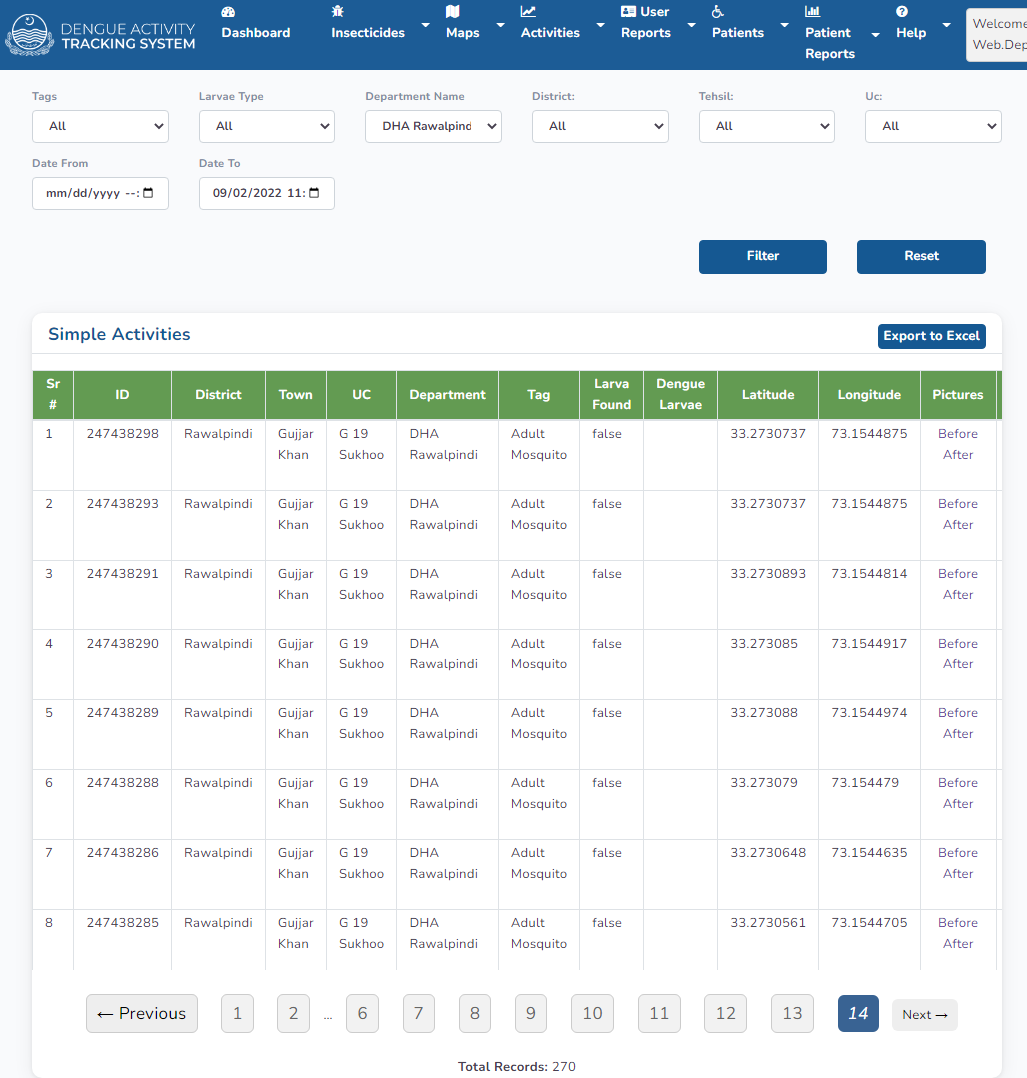
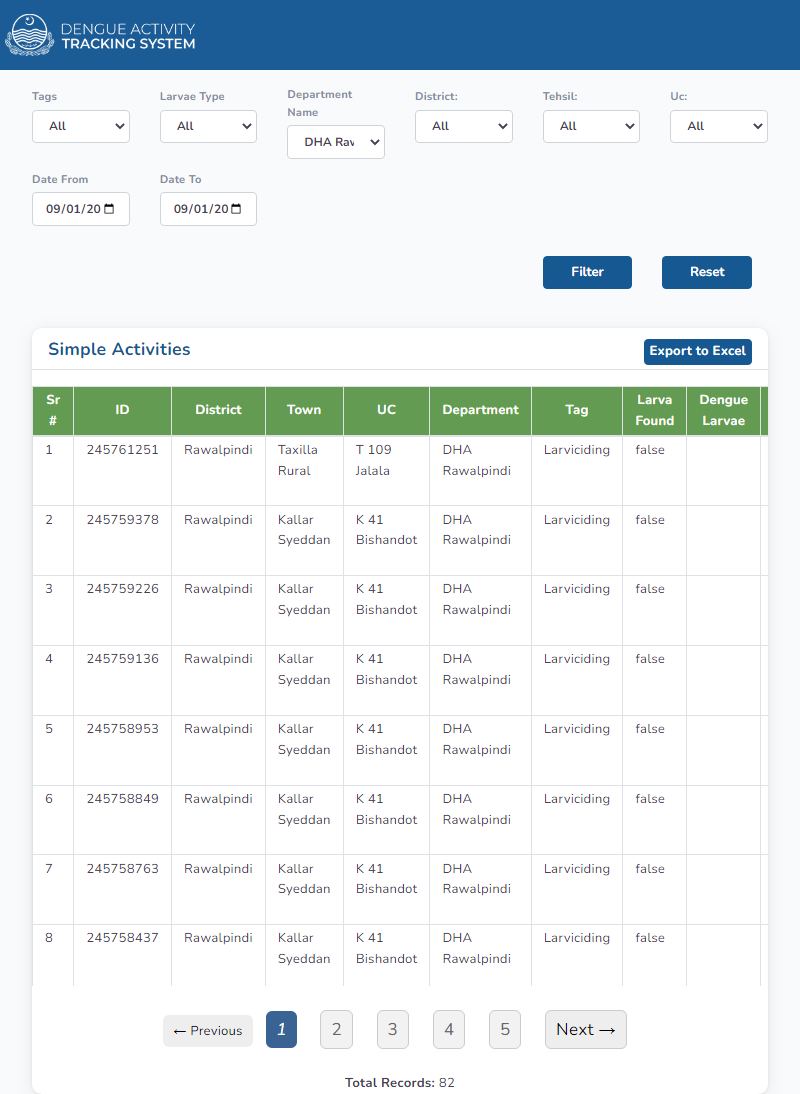
Upload to mongodb implemented

diff --git a/index.js b/index.js
@@ -4,6 +4,7 @@ const puppeteer = require('puppeteer-extra')
 const fs = require('fs/promises')
 const writeFileSync = require("fs").writeFileSync;
 const cheerio = require('cheerio')
+const scrape = require('./simpleActivityScraper')
 
 // add recaptcha plugin and provide it your 2captcha token (= their apiKey)
 // 2captcha is the builtin solution provider but others would work as well.
@@ -21,7 +22,7 @@ puppeteer.use(
 // puppeteer usage as normal
 // Launch Browser
 puppeteer.launch({
-    headless: false,
+    headless: true,
     defaultViewport: null,
     executablePath: 'C:/Program Files/Google/Chrome/Application/chrome.exe'
 })
@@ -40,18 +41,20 @@ puppeteer.launch({
             page.click(`#new_user button`)
         ])
         // Navigating to Activities page
-        // const datefrom = '2022-09-02T22:00'
-        // const dateto = '2022-09-02T23:59'
         await page.goto('https://dashboard.tracking.punjab.gov.pk/activities/simples/line_list')
-        await page.type("#department", "DHA Rawalpindi")
+        // await page.type("#department", "DHA Rawalpindi")
 
-        await page.$eval('#datefrom', el => el.value = '2022-09-02T22:00')
-        await page.$eval('#dateto', el => el.value = '2022-09-02T23:59')
+        const datefrom = '2022-09-01T00:00'
+        const dateto = '2022-09-01T23:59'
+        const activityUrl = `https://dashboard.tracking.punjab.gov.pk/activities/simples/line_list?act_tag=&datefrom=${datefrom}&dateto=${dateto}&department=129&district_id=&larva_type`
+        await page.goto(activityUrl)
+        // await page.$eval('#datefrom', (el, datefrom) => { return el.value = '2022-09-02T22:00' })
+        // await page.$eval('#dateto', (el, dateto) => { return el.value = '2022-09-02T23:59' })
 
-        await Promise.all([
-            page.waitForNavigation(),
-            page.click('body > div.app-admin-wrap.layout-horizontal-bar.clearfix > div > div.row.p-custom > div:nth-child(5) > button'),
-        ])
+        // await Promise.all([
+        //     page.waitForNavigation(),
+        //     page.click('body > div.app-admin-wrap.layout-horizontal-bar.clearfix > div > div.row.p-custom > div:nth-child(5) > button'),
+        // ])
 
         //Calculating pages
         const pageData = await page.evaluate(() => {
@@ -59,78 +62,33 @@ puppeteer.launch({
         })
         const activityArr = []
         const $ = cheerio.load(pageData.html)
-        const pagination = $('.apple_pagination:nth-child(2)').text()
+        let pagination = $('.apple_pagination:nth-child(2)').text()
+        pagination = pagination.replace(',', '')
         const pages = Math.ceil(pagination.substring(15) / 20)
         console.log(pages)
         // Iterating through columns
         for (let i = 1; i < pages + 1; i++) {
-            await page.waitForTimeout(1000)
+            // await page.waitForTimeout(1000)
 
-            const activityUrl = `https://dashboard.tracking.punjab.gov.pk/activities/simples/line_list?act_tag=&datefrom=$2022-09-02T22:00&dateto=2022-09-02T23:59&department=129&district_id=&larva_type=&page=${i}&tehsil_id=&uc=`
+            const activityUrl = `https://dashboard.tracking.punjab.gov.pk/activities/simples/line_list?act_tag=&datefrom=${datefrom}&dateto=${dateto}&department=129&district_id=&larva_type=&page=${i}&tehsil_id=&uc=`
             await page.goto(activityUrl)
 
             let activityData = await page.evaluate(() => {
                 return { html: document.documentElement.innerHTML }
             })
-            await page.waitForTimeout(1000)
-            await scrape(activityData)
+            // await page.waitForTimeout(1000)
+            try {
+                await scrape(activityData)
+            } catch (error) {
+                console.log(error)
+            }
             console.log(`Page ${i} scraped successfully.`)
-
-            // await page.click('.next_page')
-            // console.log(activityArr)
-
         }
         await page.screenshot({ path: 'response.png', fullPage: true })
         await browser.close()
 
 
 
+
     })
-
-const scrape = async (activityData) => {
-    let $ = cheerio.load(activityData.html)
-    let table = $('#p_table')
-    let rowSelector = "#p_table > tbody > tr"
-
-    const keys = ['sr', 'id', 'district', 'town', 'uc', 'tag', 'larva', 'dengueLarva', 'lat', 'long', 'pics', 'timeDiff', 'user', 'activityTime', 'bogus']
-
-
-    $(rowSelector).each((parentIdx, parentElm) => {
-        let keyIdx = 0
-        const activity = {}
-        let picsBoth = []
-        $(parentElm).children().each((childIdx, childElm) => {
-            let td = $(childElm)
-            let tdValue = $(childElm).text()
-            $(td).find('a').each((i, part) => {
-                const $part = $(part)
-                picsBoth.push($part.attr('href'))
-            })
-
-            if (keyIdx === 10) {
-                // picsBoth.beforePic = $('a:first-child', $(childElm).html()).attr('href')
-                // picsBoth.afterPic = $('a:nth-child(2)', $(childElm).html()).attr('href')
-                tdValue = picsBoth
-            }
-
-            if (keyIdx === 14) {
-                const bogus = $('button', $(childElm).html()).attr('onclick')
-                if (bogus === undefined) {
-                    tdValue = "Bogus Activity"
-                } else {
-                    tdValue = `https://dashboard.tracking.punjab.gov.pk${bogus.substring(17)}`
-                }
-            }
-
-            if (tdValue) {
-                activity[keys[keyIdx]] = tdValue
-
-
-                keyIdx++
-            }
-        })
-        console.log(activity)
-    })
-    // return scrape() // run the loop again
-}
 

diff --git a/simpleActivityScraper.js b/simpleActivityScraper.js
@@ -1,0 +1,81 @@
+const { default: axios } = require('axios')
+const cheerio = require('cheerio')
+const dateMod = require('./dateMod')
+
+const scrape = async (activityData) => {
+    let $ = cheerio.load(activityData.html)
+    let rowSelector = "#p_table > tbody > tr"
+
+    const keys = ['sr', 'pitbid', 'district', 'town', 'uc', 'department', 'tag', 'larva', 'dengueLarva', 'lat', 'long', 'pics', 'timeDiff', 'userName', 'date', 'bogus']
+
+
+    $(rowSelector).each(async function (parentIdx, parentElm) {
+        const activity = {}
+        let keyIdx = 0
+        $(parentElm).children().each((childIdx, childElm) => {
+            let picsBoth = []
+            let td = $(childElm)
+            let tdValue = $(childElm).text()
+            $(td).find('a').each((i, part) => {
+                const $part = $(part)
+                picsBoth.push($part.attr('href'))
+            })
+
+            if (keyIdx === 10) {
+                tdValue = picsBoth
+            }
+
+            if (keyIdx === 14) {
+                const bogus = $('button', $(childElm).html()).attr('onclick')
+                if (bogus === undefined) {
+                    tdValue = "Bogus Activity"
+                } else {
+                    tdValue = `https://dashboard.tracking.punjab.gov.pk${bogus.substring(17)}`
+                }
+            }
+
+            if (childIdx) {
+                activity[keys[childIdx]] = tdValue
+                keyIdx++
+            }
+        })
+        try {
+            await uploadActivity(activity)
+        } catch (error) {
+            console.log(error)
+        }
+        console.log(`Activity number ${parentIdx + 1} scrapped`)
+    })
+}
+
+const uploadActivity = async (activity) => {
+    // "on 09/02/2022 at 10:01PM"
+    const aDate = dateMod(activity)
+    const dateSubmitted = new Date(aDate)
+    // console.log(dateSubmitted)
+    // console.log(aDate)
+    axios({
+        method: 'post',
+        url: 'http://scraper.sjcloud.ga:5232/simples/new',
+        data: {
+            pitbid: activity.pitbid,
+            district: activity.district,
+            town: activity.town,
+            uc: activity.uc,
+            department: activity.department,
+            tag: activity.tag,
+            larva: activity.larva,
+            dengueLarva: activity.dengueLarva,
+            lat: activity.lat,
+            long: activity.long,
+            beforePic: `https://dashboard.tracking.punjab.gov.pk${activity.pics[0]}`,
+            afterPic: `https://dashboard.tracking.punjab.gov.pk${activity.pics[1]}`,
+            timeDiff: activity.timeDiff,
+            userName: activity.userName,
+            dateSubmitted: dateSubmitted,
+            bogus: activity.bogus
+        }
+    })
+}
+
+module.exports = scrape

diff --git a/dateMod.js b/dateMod.js
@@ -1,0 +1,16 @@
+const dateMod = (activity) => {
+    const date1 = activity.date.slice(3, 5)
+    const date2 = activity.date.slice(6, 8)
+    const date3 = activity.date.slice(9, 13)
+    const date4 = activity.date.slice(17, 19)
+    const date5 = activity.date.slice(19, 22)
+    const date6 = activity.date.slice(22, 24)
+    let date7 = parseInt(date4)
+
+    if (date6 === "PM") {
+        date7 = date7 + 12
+    }
+    return `${date3}-${date1}-${date2}T${date7}${date5}:00+05:00`
+}
+
+module.exports = dateMod
